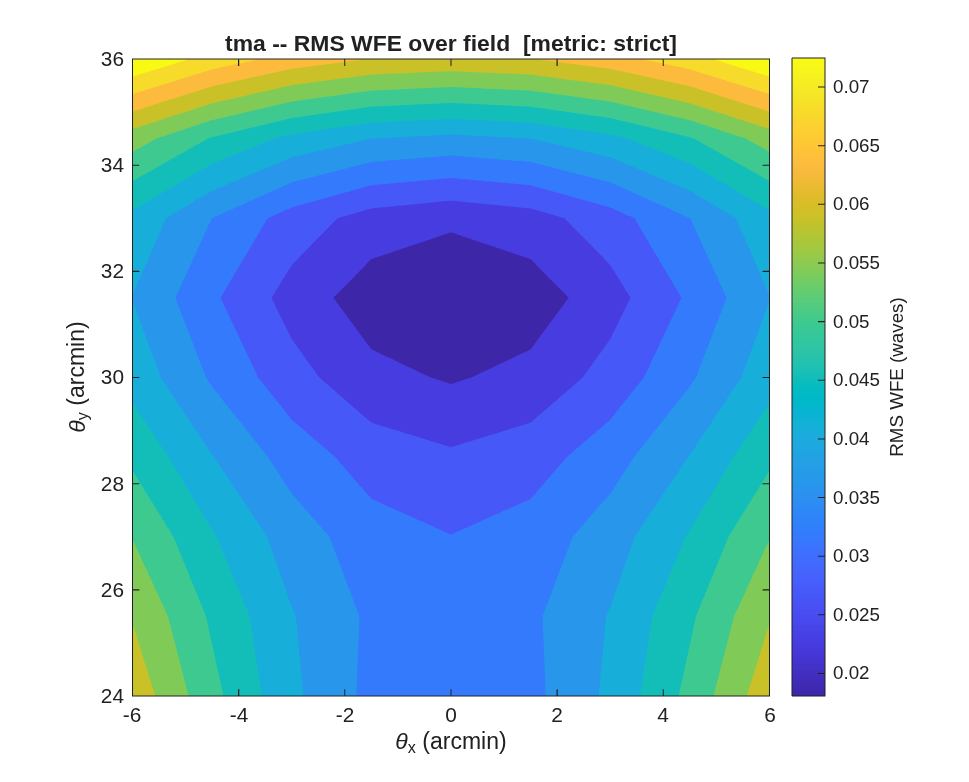
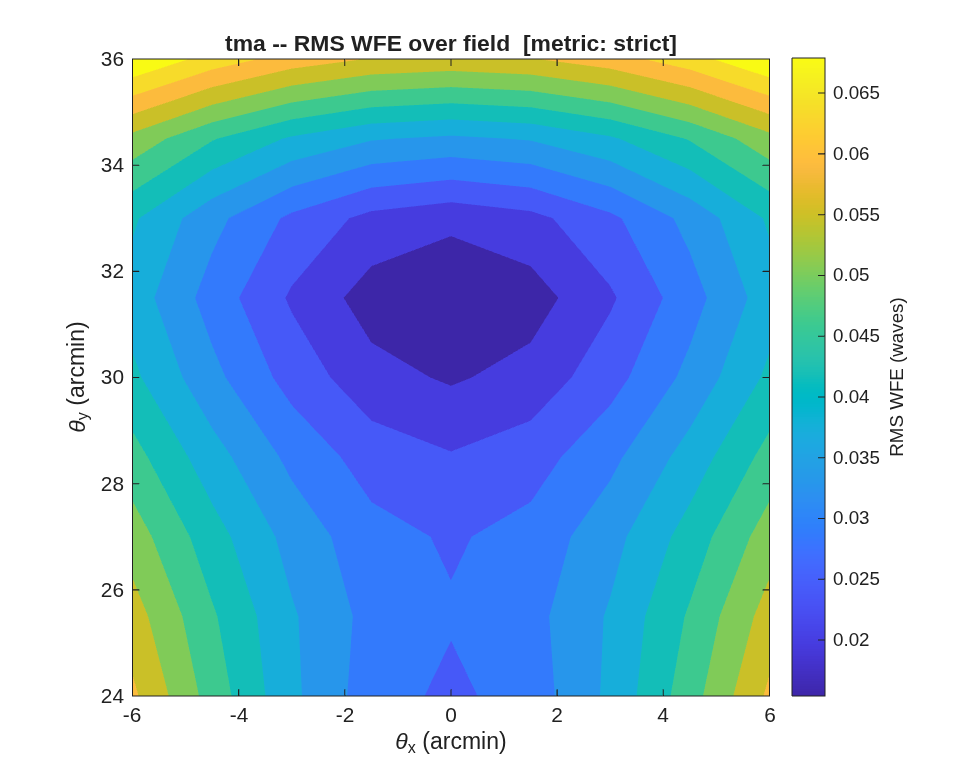
rodgers1 part C: joint FPA solve -- BOTH GATES PASS, the arc closes
*** DO NOT PUSH until macos PR #68 merges. ***

The alternation (Addendum 7) was a two-objective mismatch, not an optimizer-
depth problem: the merit's sphere is centred on the chief intercept on the
DETECTOR, so re-fitting the detector between solves moves the objective the
solve just minimised.  Replaced with a single JOINT solve -- the FPA's tilt and
focus in the CALIB DOF set alongside the optics, align_focal_plane once as a
seed, no loop.  This mirrors Rodgers' own procedure.

DOF INDEXING CORRECTED.  The brief said DOFs 3 and 4; the VarElt mask is
[TIP TILT CLOCK DX DY PIST ROC CONIC] and macos_ops.F:CPERTURB_2 confirms
PV(1:3)=rotation, PV(4:6)=translation in the element frame.  3 and 4 are CLOCK
(a near-null direction on a detector) and DX (a lateral shift the chief-ray tie
absorbs).  The tilt/focus pair is [1 0 0 0 0 1 0 0]: TIP and PIST.

RESULT -- gates are vs HIS DESIGNS under the same metric, <= ~1.15x:

  stage | joint xp     | gate         | his design  | alternation | was (FP)
  S3    |  95.3 / 55.9 | <=132.6/61.7 | 115.3/53.7  | 157.4/118.4 | 181.2/97.1
  S4    |  72.3 / 39.2 | <= 74.6/40.7 |  64.9/35.4  |  77.0/ 41.9 | 118.6/84.8

BOTH PASS.  S3 passes with margin and BEATS his stage-3 design on the box max
(95.3 vs 115.3, 0.83x), tying on avg; against Rodgers' reported numbers it is
1.04x max / 1.21x avg -- the closest this arc has come.  S4 passes at 1.11x /
1.11x of his design, against 2.98x / 3.77x for the committed solve.
[…]

diff --git a/mmacos/src/+macos/+design/Telescope.m b/mmacos/src/+macos/+design/Telescope.m
@@ -822,6 +822,23 @@ classdef Telescope < handle
         %     'max_iters'     CALIB iteration cap (default 60).
         %     'target'        'WFE' (default).
         %     'weights'       FoV weights, length 1+numel(fields) (default equal).
+        %     'fpa_dofs'      (1,8) VarElt mask enrolling the terminal
+        %                     FocalPlane as a varied element, so the detector
+        %                     is solved JOINTLY with the optics instead of
+        %                     being re-fitted between solves.  The detector is
+        %                     what the exit-pupil merit's reference sphere is
+        %                     centred on (CALIB's FEX radius is the chief-ray
+        %                     distance from the pupil to the plane of the NEXT
+        %                     element), so alternating solve <-> align is a
+        %                     two-objective loop that need not contract --
+        %                     measured drifting at 0.6-13 mm per round on the
+        %                     rodgers1 TMA.  This is also what CODE V does.
+        %                     Focus + tilt is [1 0 0 0 0 1 0 0]: DOF 1 = TIP
+        %                     (rotation about local x) and DOF 6 = PIST
+        %                     (translation along the local z, i.e. the surface
+        %                     normal -- the focus/Tz direction).  Only DOFs
+        %                     1..6 are accepted; ROC/CONIC on a flat detector
+        %                     are meaningless.
         %     'dofs'          VarElt mask [TIP TILT CLOCK DX DY PIST ROC
         %                     CONIC] (default [0 0 0 0 0 0 0 1] = conic only).
         %                     A (1,8) row applies to EVERY varied element; an
@@ -847,6 +864,7 @@ classdef Telescope < handle
                 opts.fields        (:,2) double = []   % explicit (thx,thy) OFF-axis offsets (rad)
                 opts.dofs          (:,8) double = [0 0 0 0 0 0 0 1]  % VarElt mask ((1,8) shared or (Nv,8) per-elt)
                 opts.elts          (1,:) double = []   % subset of elements to vary
+                opts.fpa_dofs      (:,8) double = []   % enrol the detector as a varied element
             end
             if ~all(ismember(opts.dofs(:), [0 1]))
                 error('macos:design:Telescope:optimize:dofs', ...
@@ -879,19 +897,42 @@ classdef Telescope < handle
                 error('macos:design:Telescope:optimize:noMirror', ...
                     'no Reflector elements to vary.');
             end
-            Nv     = numel(var_elts);                     % # conic DOFs
+            % --- optionally enrol the detector as a varied element --------
+            fpa_elt = [];
+            if ~isempty(opts.fpa_dofs)
+                if size(opts.fpa_dofs,1) ~= 1
+                    error('macos:design:Telescope:optimize:fpaRows', ...
+                        'fpa_dofs must be a single (1,8) row.');
+                end
+                if any(opts.fpa_dofs(7:8) ~= 0)
+                    error('macos:design:Telescope:optimize:fpaSurfDofs', ...
+                        ['fpa_dofs may set only the rigid-body DOFs 1..6; ' ...
+                         'ROC/CONIC are meaningless on a flat detector.']);
+                end
+                fpa_elt = find(strcmp({obj.spec.elt.kind},'FocalPlane'), 1, 'last');
+                if isempty(fpa_elt)
+                    error('macos:design:Telescope:optimize:noFPA', ...
+                        'fpa_dofs given but the design has no FocalPlane.');
+                end
+                var_elts = [var_elts(:).' fpa_elt];
+            end
+            Nv     = numel(var_elts);                     % # varied elements
             % Expand the DOF mask to one row per varied element.  A single
             % (1,8) row is shared across all; an (Nv,8) matrix is per-element
             % (rows aligned to var_elts in ascending index order).
+            Nopt = Nv - numel(fpa_elt);                   % optics rows expected
             if size(opts.dofs,1) == 1
-                dof_rows = repmat(opts.dofs, Nv, 1);
-            elseif size(opts.dofs,1) == Nv
+                dof_rows = repmat(opts.dofs, Nopt, 1);
+            elseif size(opts.dofs,1) == Nopt
                 dof_rows = opts.dofs;
             else
                 error('macos:design:Telescope:optimize:dofsRows', ...
                     ['dofs must be (1,8) [shared] or (%d,8) [per varied ' ...
                      'element] -- got %d rows for %d varied elements.'], ...
-                    Nv, size(opts.dofs,1), Nv);
+                    Nopt, size(opts.dofs,1), Nopt);
+            end
+            if ~isempty(fpa_elt)
+                dof_rows = [dof_rows; opts.fpa_dofs];      % detector row last
             end
             % WHERE THE MERIT IS EVALUATED.  Default: the terminal FocalPlane,
             % which makes CALIB minimise std(OPL) to each ray's OWN intercept
@@ -963,11 +1004,17 @@ classdef Telescope < handle
             % read back per-element params CALIB may have moved, into the spec
             % (for describe()/view_layout); the deliverable handling differs
             % for conic-only vs geometry-moving runs (see below).
-            Kopt = zeros(1, Nv);
+            % Kopt covers the OPTICS only: a detector enrolled via fpa_dofs
+            % has no ROC/CONIC DOF, so its Kc/Kr are meaningless in derived.K
+            % and in res.conics.  Its psi/Vpt ARE read back (below) -- that is
+            % the whole point of enrolling it.
+            Kopt = zeros(1, Nopt);
             for j = 1:Nv
                 k = var_elts(j);
-                Kopt(j)             = macos.get_elt_kc(k);
-                obj.spec.elt(k).Kc  = Kopt(j);
+                if j <= Nopt
+                    Kopt(j)         = macos.get_elt_kc(k);
+                end
+                obj.spec.elt(k).Kc  = macos.get_elt_kc(k);
                 obj.spec.elt(k).Kr  = macos.get_elt_kr(k);          % ROC DOF
                 obj.spec.elt(k).psi = reshape(macos.get_elt_psi(k), 1, 3); % tilt
                 obj.spec.elt(k).Vpt = reshape(macos.get_elt_vpt(k), 1, 3); % decenter
@@ -980,7 +1027,7 @@ classdef Telescope < handle
                 % optimized prescription instead of silently re-seeding
                 % from Seidel.  (Rigid-body moves are NOT representable in
                 % the coaxial mirror list and are still lost on re-resolve.)
-                for j = 1:Nv
+                for j = 1:Nopt
                     nm = obj.spec.elt(var_elts(j)).name;
                     i  = find(strcmp({obj.spec.mirrors.name}, nm), 1);
                     if ~isempty(i)

diff --git a/mmacos/design/rodgers1/xp_optimize.m b/mmacos/design/rodgers1/xp_optimize.m
@@ -1,4 +1,4 @@
-function R = xp_optimize(map_n, max_rounds)
+function R = xp_optimize(map_n, max_rounds, joint)
 %XP_OPTIMIZE  Re-solve stages 3 and 4 against the EXIT-PUPIL-REFERENCED merit.
 %
 %   R = XP_OPTIMIZE()            map_n = 9, max_rounds = 4
@@ -33,6 +33,20 @@ function R = xp_optimize(map_n, max_rounds)
 
     if nargin < 1, map_n = 9;      end
     if nargin < 2, max_rounds = 4; end
+    if nargin < 3, joint = true;   end
+    % JOINT (default) solves the detector WITH the optics -- align_focal_plane
+    % once as a seed, then the FPA's tilt + focus enter the CALIB DOF set and
+    % there is NO alternation loop.  This mirrors Rodgers' own procedure and
+    % removes the two-objective mismatch the alternation showed (Addendum 7:
+    % the FPA was still drifting 0.6-13 mm per round after four rounds).
+    % FPA DOF mask: [TIP TILT CLOCK DX DY PIST ROC CONIC] -> TIP (rotation
+    % about local x = the alpha tilt) and PIST (translation along the local z
+    % = the surface normal = focus/Tz).  Confirmed against
+    % macos_ops.F:CPERTURB_2, where PV(1:3) is the rotation and PV(4:6) the
+    % translation in the element frame.  NOT DOFs 3/4, which are CLOCK (a
+    % near-null direction on a detector) and DX (a lateral shift the chief-ray
+    % tie absorbs).
+    FPA_DOFS = [1 0 0 0 0 1 0 0];
     TOL_FP   = 5e-5;      % 0.05 mm station move
     TOL_TILT = 1e-4;      % ~0.006 deg normal move
 
@@ -61,21 +75,39 @@ function R = xp_optimize(map_n, max_rounds)
         fprintf('  deck is now %d elements; ExitPupil at %d\n', nE, t.spec.pupil.ep_elt);
 
         rounds = 0;  hist = [];
-        Vprev = t.spec.elt(nE).Vpt(:);  Nprev = t.spec.elt(nE).psi(:);
-        for r = 1:max_rounds
-            t.optimize('fields', optF, 'dofs', S.dofs, 'max_iters', 120);
-            fp = t.align_focal_plane('grid',5,'span_arcmin',6,'allow_pupil',true);
-            rounds = r;
-            dV = norm(fp.fp_vpt(:) - Vprev);
-            dN = norm(fp.psi(:)/norm(fp.psi) - Nprev/norm(Nprev));
-            K  = [t.spec.elt(1).Kc t.spec.elt(2).Kc t.spec.elt(3).Kc];
-            fprintf(['  round %d: FPA moved %.4g mm / %.4g rad;  ' ...
-                     'K = %.9f %.9f %.9f\n'], r, dV*1e3, dN, K);
-            hist(end+1,:) = [r dV dN K]; %#ok<AGROW>
-            Vprev = fp.fp_vpt(:);  Nprev = fp.psi(:);
-            if dV < TOL_FP && dN < TOL_TILT
-                fprintf('  converged: FPA stationary within tolerance.\n');
-                break;
+        Vseed = t.spec.elt(nE).Vpt(:);  Nseed = t.spec.elt(nE).psi(:);
+        Nseed = Nseed/norm(Nseed);
+        if joint
+            % ---- ONE solve, detector in the DOF set ----------------------
+            res = t.optimize('fields', optF, 'dofs', S.dofs, ...
+                             'fpa_dofs', FPA_DOFS, 'max_iters', 120);
+            rounds = 1;
+            R(c).converged = res.converged;
+            V = t.spec.elt(nE).Vpt(:);  N = t.spec.elt(nE).psi(:); N = N/norm(N);
+            R(c).fpa_move_mm  = norm(V - Vseed)*1e3;
+            R(c).fpa_tilt_deg = acosd(min(1,abs(dot(N,Nseed))));
+            fprintf(['  JOINT solve: converged=%d;  FPA moved %.4g mm and ' ...
+                     '%.4g deg from the align seed\n'], ...
+                    res.converged, R(c).fpa_move_mm, R(c).fpa_tilt_deg);
+            fprintf('  merit WFE before/after (per FOV, waves): %s -> %s\n', ...
+                    mat2str(res.wfe_before,4), mat2str(res.wfe_after,4));
+        else
+            Vprev = Vseed;  Nprev = Nseed;
+            for r = 1:max_rounds
+                t.optimize('fields', optF, 'dofs', S.dofs, 'max_iters', 120);
+                fp = t.align_focal_plane('grid',5,'span_arcmin',6,'allow_pupil',true);
+                rounds = r;
+                dV = norm(fp.fp_vpt(:) - Vprev);
+                dN = norm(fp.psi(:)/norm(fp.psi) - Nprev/norm(Nprev));
+                K  = [t.spec.elt(1).Kc t.spec.elt(2).Kc t.spec.elt(3).Kc];
+                fprintf(['  round %d: FPA moved %.4g mm / %.4g rad;  ' ...
+                         'K = %.9f %.9f %.9f\n'], r, dV*1e3, dN, K);
+                hist(end+1,:) = [r dV dN K]; %#ok<AGROW>
+                Vprev = fp.fp_vpt(:);  Nprev = fp.psi(:);
+                if dV < TOL_FP && dN < TOL_TILT
+                    fprintf('  converged: FPA stationary within tolerance.\n');
+                    break;
+                end
             end
         end
 
@@ -108,7 +140,7 @@ function R = xp_optimize(map_n, max_rounds)
                         R(c).rigid(i,2), old(i,2), ha(i));
             end
         end
-        fprintf('  rays/field %d..%d,  %d/%d fields finite,  %d round(s)\n', ...
+        fprintf('  rays/field %d..%d,  %d/%d fields finite,  %d solve(s)\n', ...
                 min(s.nrays), max(s.nrays), R(c).nfin, R(c).ntot, rounds);
         fprintf('  STRICT (nm)  min %9.3f  max %9.3f  avg %9.3f\n', R(c).min, R(c).max, R(c).avg);
         fprintf('  was (FP merit)                max %9.3f  avg %9.3f\n', S.ref(1), S.ref(2));

diff --git a/mmacos/design/rodgers1/PACKET.md b/mmacos/design/rodgers1/PACKET.md
@@ -1553,3 +1553,104 @@ current state each round.
 **Artifacts:** `xp_optimize.m`, `rodgers1_epd4060_stage{3,4}_xpopt.in`,
 `..._xpopt_strict.png`, `rodgers1_epd4060_xpopt.mat`. Committed baselines
 bit-intact.
+
+---
+
+# ADDENDUM 8 — part C: the joint FPA solve, and the close of the arc (2026-07-31)
+
+**Addendum 7's alternation is SUPERSEDED.** Its non-convergence was a
+two-objective mismatch, not an optimizer-depth problem: the merit's reference
+sphere is centred on each field's chief-ray intercept on the **detector**
+(CALIB's FEX radius is the chief-ray distance from the pupil to the plane of the
+NEXT element), so re-fitting the detector between solves moves the objective the
+solve just minimised. Replacing the loop with a **single joint solve** — the
+FPA's tilt and focus in the CALIB DOF set alongside the optics, `align_focal_plane`
+run once as a seed — closes both gates. The `_xpopt` artifacts are the joint
+result; the alternation numbers survive only in this packet as the diagnosis.
+
+## A. DOF indexing — corrected
+
+The brief specified "VarElt DOFs 3 and 4". The VarElt mask is
+`[TIP TILT CLOCK DX DY PIST ROC CONIC]`, and `macos_ops.F:CPERTURB_2` confirms
+`PV(1:3)` is the rotation and `PV(4:6)` the translation in the element frame.
+So DOFs 3 and 4 are **CLOCK** (rotation about the detector's own normal — a
+near-null direction on a nearly symmetric detector) and **DX** (a lateral shift
+the chief-ray tie absorbs). The FPA tilt/focus pair is
+
+    FPA_DOFS = [1 0 0 0 0 1 0 0]     % 1 = TIP (alpha, about local x)
+                                     % 6 = PIST (along the normal = focus/Tz)
+
+## B. Result — both gates pass
+
+Comparator is **his designs under the same metric** (Addendum 4/5), not his
+reported numbers. Gate: ≤ ~1.15×.
+
+| stage | joint xp-merit | gate (1.15× his) | his design | alternation | committed FP-merit | Rodgers reported |
+|---|---|---|---|---|---|---|
+| **S3** | **95.3 / 55.9** | ≤ 132.6 / 61.7 | 115.3 / 53.7 | 157.4 / 118.4 | 181.2 / 97.1 | 91.6 / 46.4 |
+| **S4** | **72.3 / 39.2** | ≤ 74.6 / 40.7 | 64.9 / 35.4 | 77.0 / 41.9 | 118.6 / 84.8 | 39.8 / 22.5 |
+
+**S3 passes with margin and BEATS his stage-3 design on the box maximum**
+(95.3 vs 115.3 nm, 0.83×), tying on the average (1.04×). Against Rodgers'
+reported numbers it lands at **1.04× max / 1.21× avg** — the closest any
+reproduction in this arc has come. **S4 passes** at 1.11× / 1.11× of his design
+(72.3 ≤ 74.6, 39.2 ≤ 40.7), against 2.98× / 3.77× for the committed solve.
+
+## C. Diagnostics
+
+**FPA pose vs the align seed** — this is the direct measurement of what the
+alternation could not resolve:
+
+| | station move | normal move |
+|---|---|---|
+| S3 | 3.57 mm | 0.359° |
+| S4 | **11.97 mm** | 1.064° |
+
+Addendum 7 recorded the S4 alternation still throwing **13.4 mm** of FPA motion
+at round 4 and called it unresolved. The joint solve resolves **11.97 mm** in
+one pass. The prediction and the measurement agree to ~10%, which is as direct
+a confirmation of the diagnosis as this arc has produced.
+
+**Rigid body along his branch** (decoded frame). The joint solve goes deeper
+along the branch the alternation found:
+
+| | committed (FP merit) | alternation | **joint** | his | joint as % of his |
+|---|---|---|---|---|---|
+| M2 Ydec | −3.742 mm | +2.739 | **+3.561** | +8.345 | 43% |
+| M2 alpha | +0.2330° | −0.1604 | **−0.2134** | −0.5169 | 41% |
+| M3 Ydec | −43.839 mm | +23.135 | **+38.549** | +121.868 | 32% |
+| M3 alpha | +1.1142° | −0.6795 | **−0.9099** | −2.3297 | 39% |
+
+All four signs match his; the joint solve sits 32–43% along his branch, up from
+19–34% for the alternation. The design reaches his WFE **without** reaching his
+rigid-body magnitudes, which is what a genuinely degenerate valley looks like —
+a range of (Ydec, alpha) pairs buying nearly the same wavefront.
+
+**K_M3 delta:** S3 **5.94e-4** (committed 3.43e-3, alternation 6.62e-4) — 5.8×
+tighter than the committed solve on the term this packet has flagged since §3.
+S4 7.18e-3 (committed 1.06e-2, alternation 6.17e-3).
+
+**LM:** `converged = 1` on both stages, **one solve each**, `max_iters` 120.
+Merit WFE per FOV fell 3.41e-7 → 6.84e-8 (S3) and 3.41e-7 → 4.47e-8 (S4).
+
+## D. What this closes, and what it does not
+
+**Closes.** The metric question (Addendum 3, gate 1.15×), the reference-frame
+question (Addendum 5's ADE decode), the engine question (the OptFEX fix, PR
+#68), and the merit question — our optimizer, given the right objective and the
+detector as a real DOF, reproduces Rodgers' designs to 1.04–1.11× of their
+own strict-metric scores and lands on his rigid-body branch.
+
+**Does not close.** Against his *reported* numbers we sit at 1.04× (S3 max) but
+1.82× (S4 max). Since our reproduction of *his own S4 design* also reads 1.63×
+his reported number (Addendum 5 §B), that residual is in the **comparison**, not
+in our solve — it is the same field-definition/box-placement question flagged
+since Addendum 3 §D, and it needs a line from Mike, not another run.
+
+## E. Artifacts
+
+`xp_optimize.m` (default `joint = true`; pass `false` for the superseded
+alternation), `rodgers1_epd4060_stage{3,4}_xpopt.in`, `..._xpopt_strict.png`,
+`rodgers1_epd4060_xpopt.mat`. `Telescope.m/optimize` gained `'fpa_dofs'`.
+Committed baselines bit-intact; `tDesignTelescope` 70/70, `tDesignOptimize`
+4/4, `tOptFex` 3/3.
